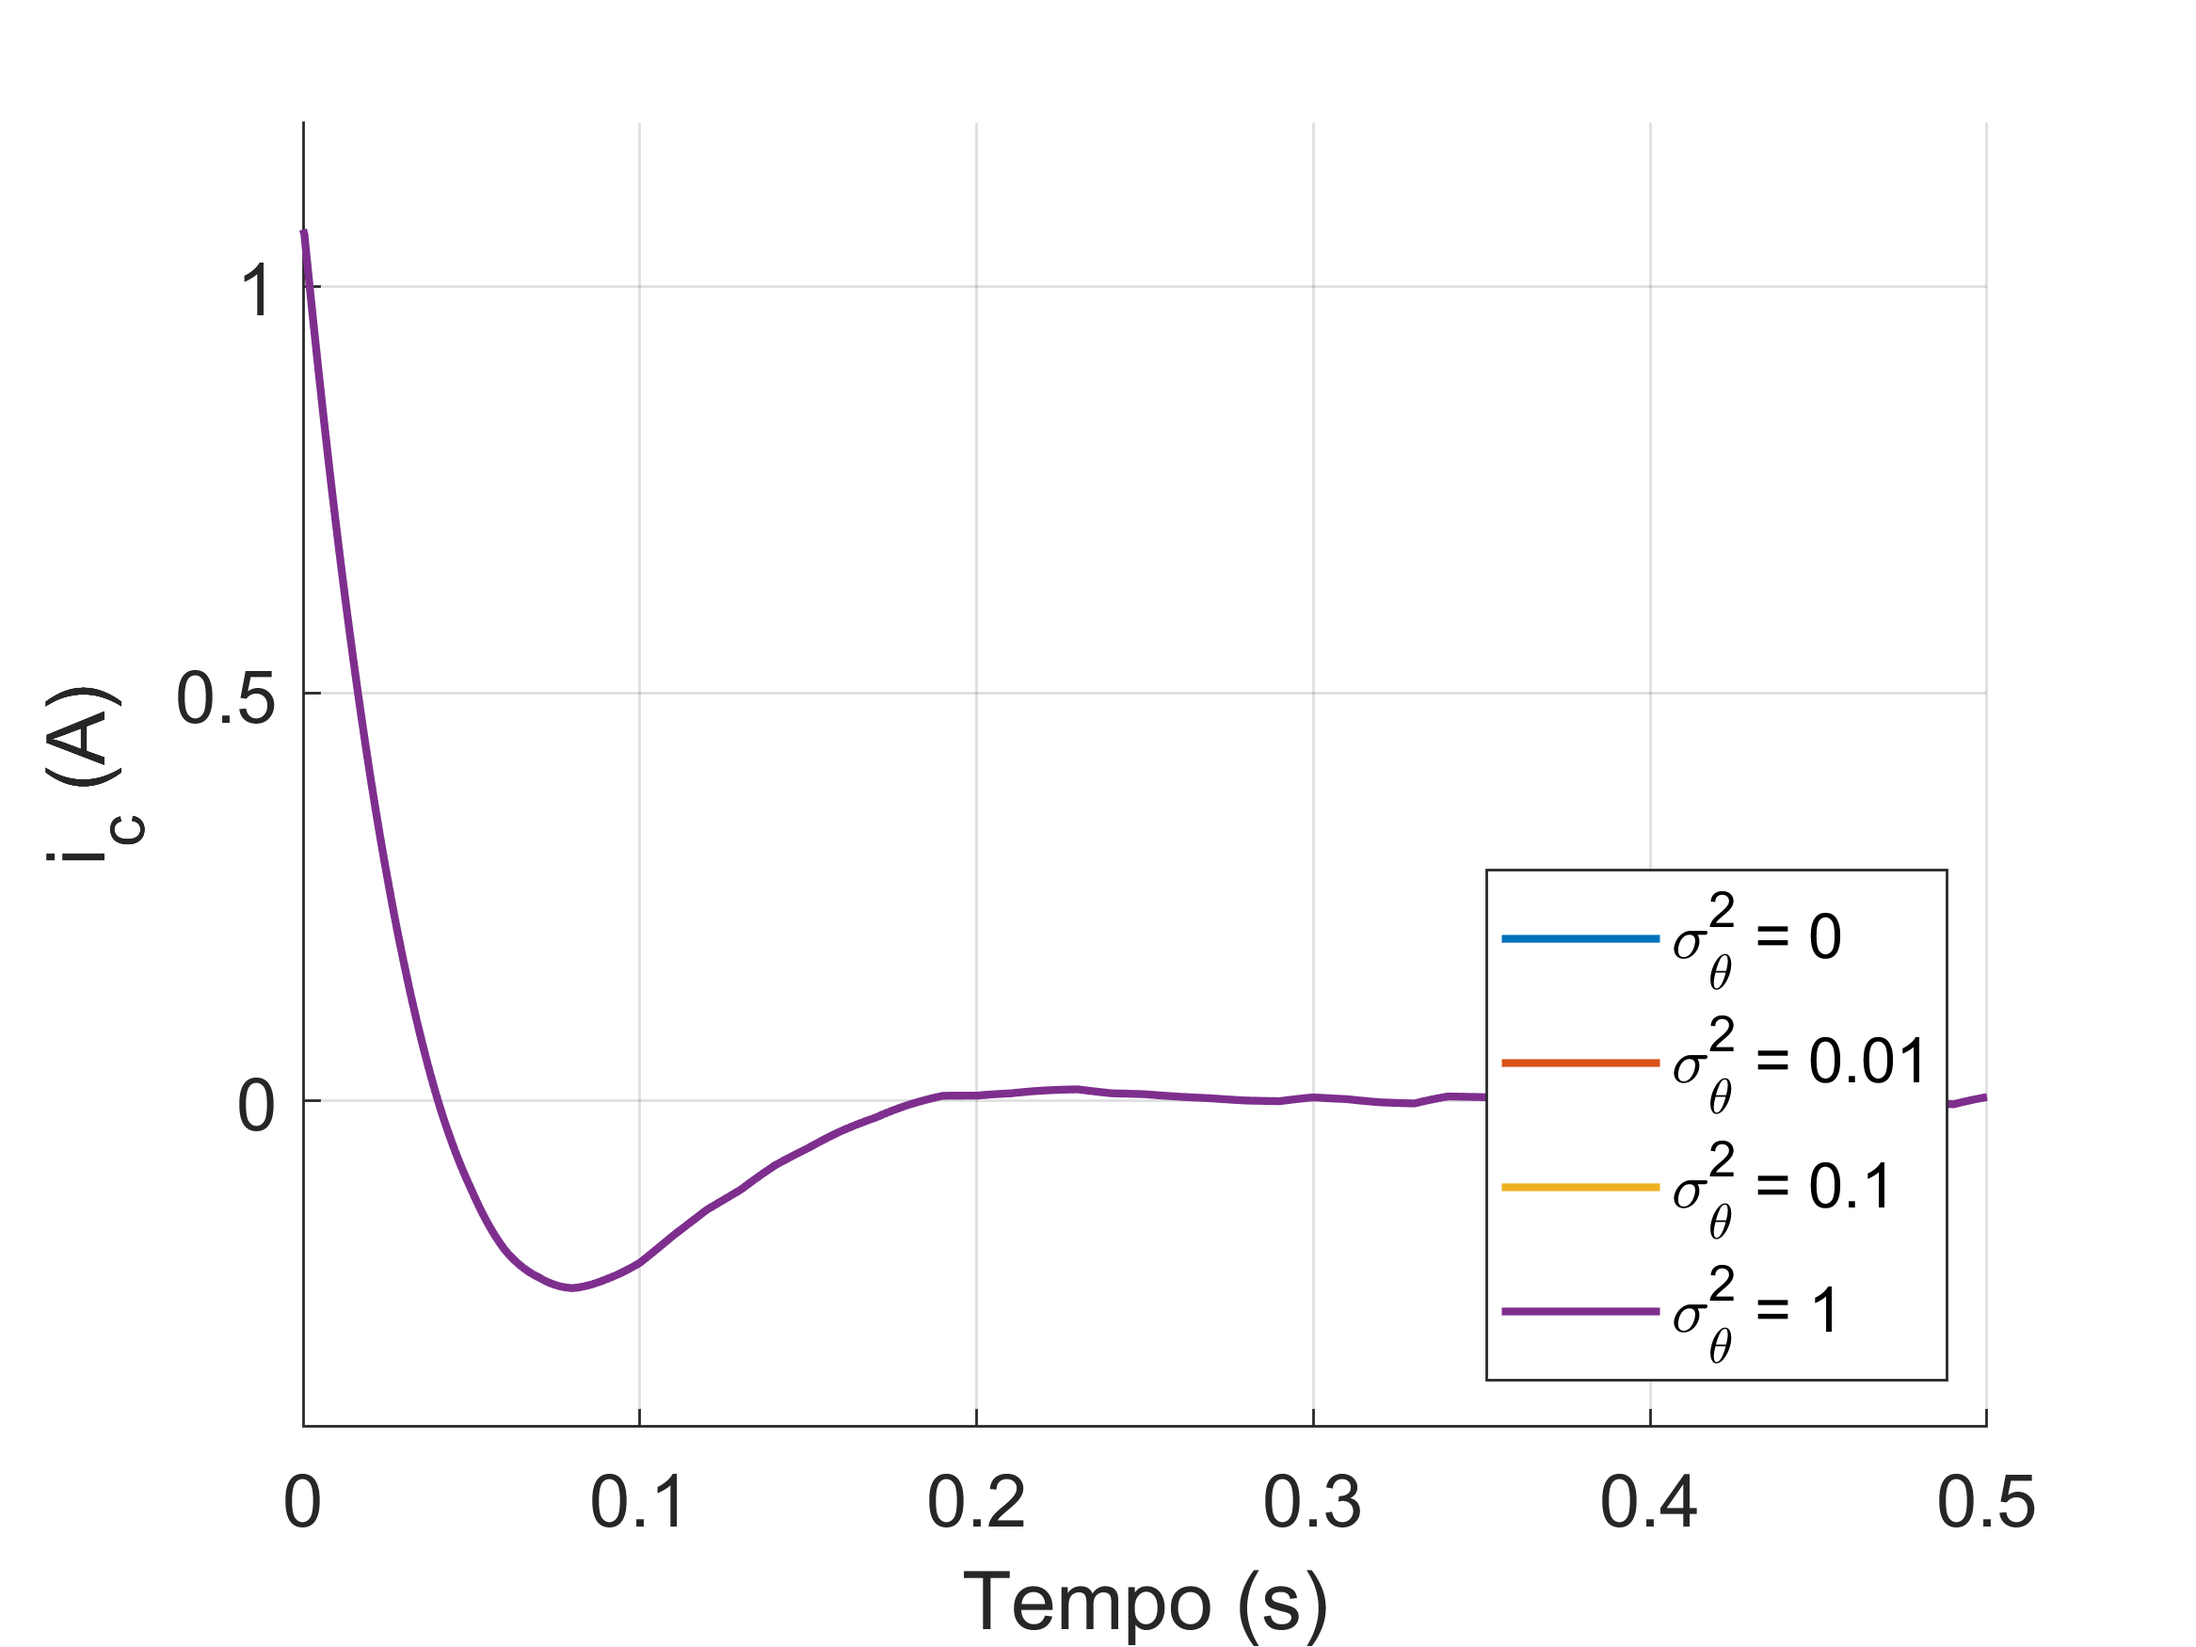
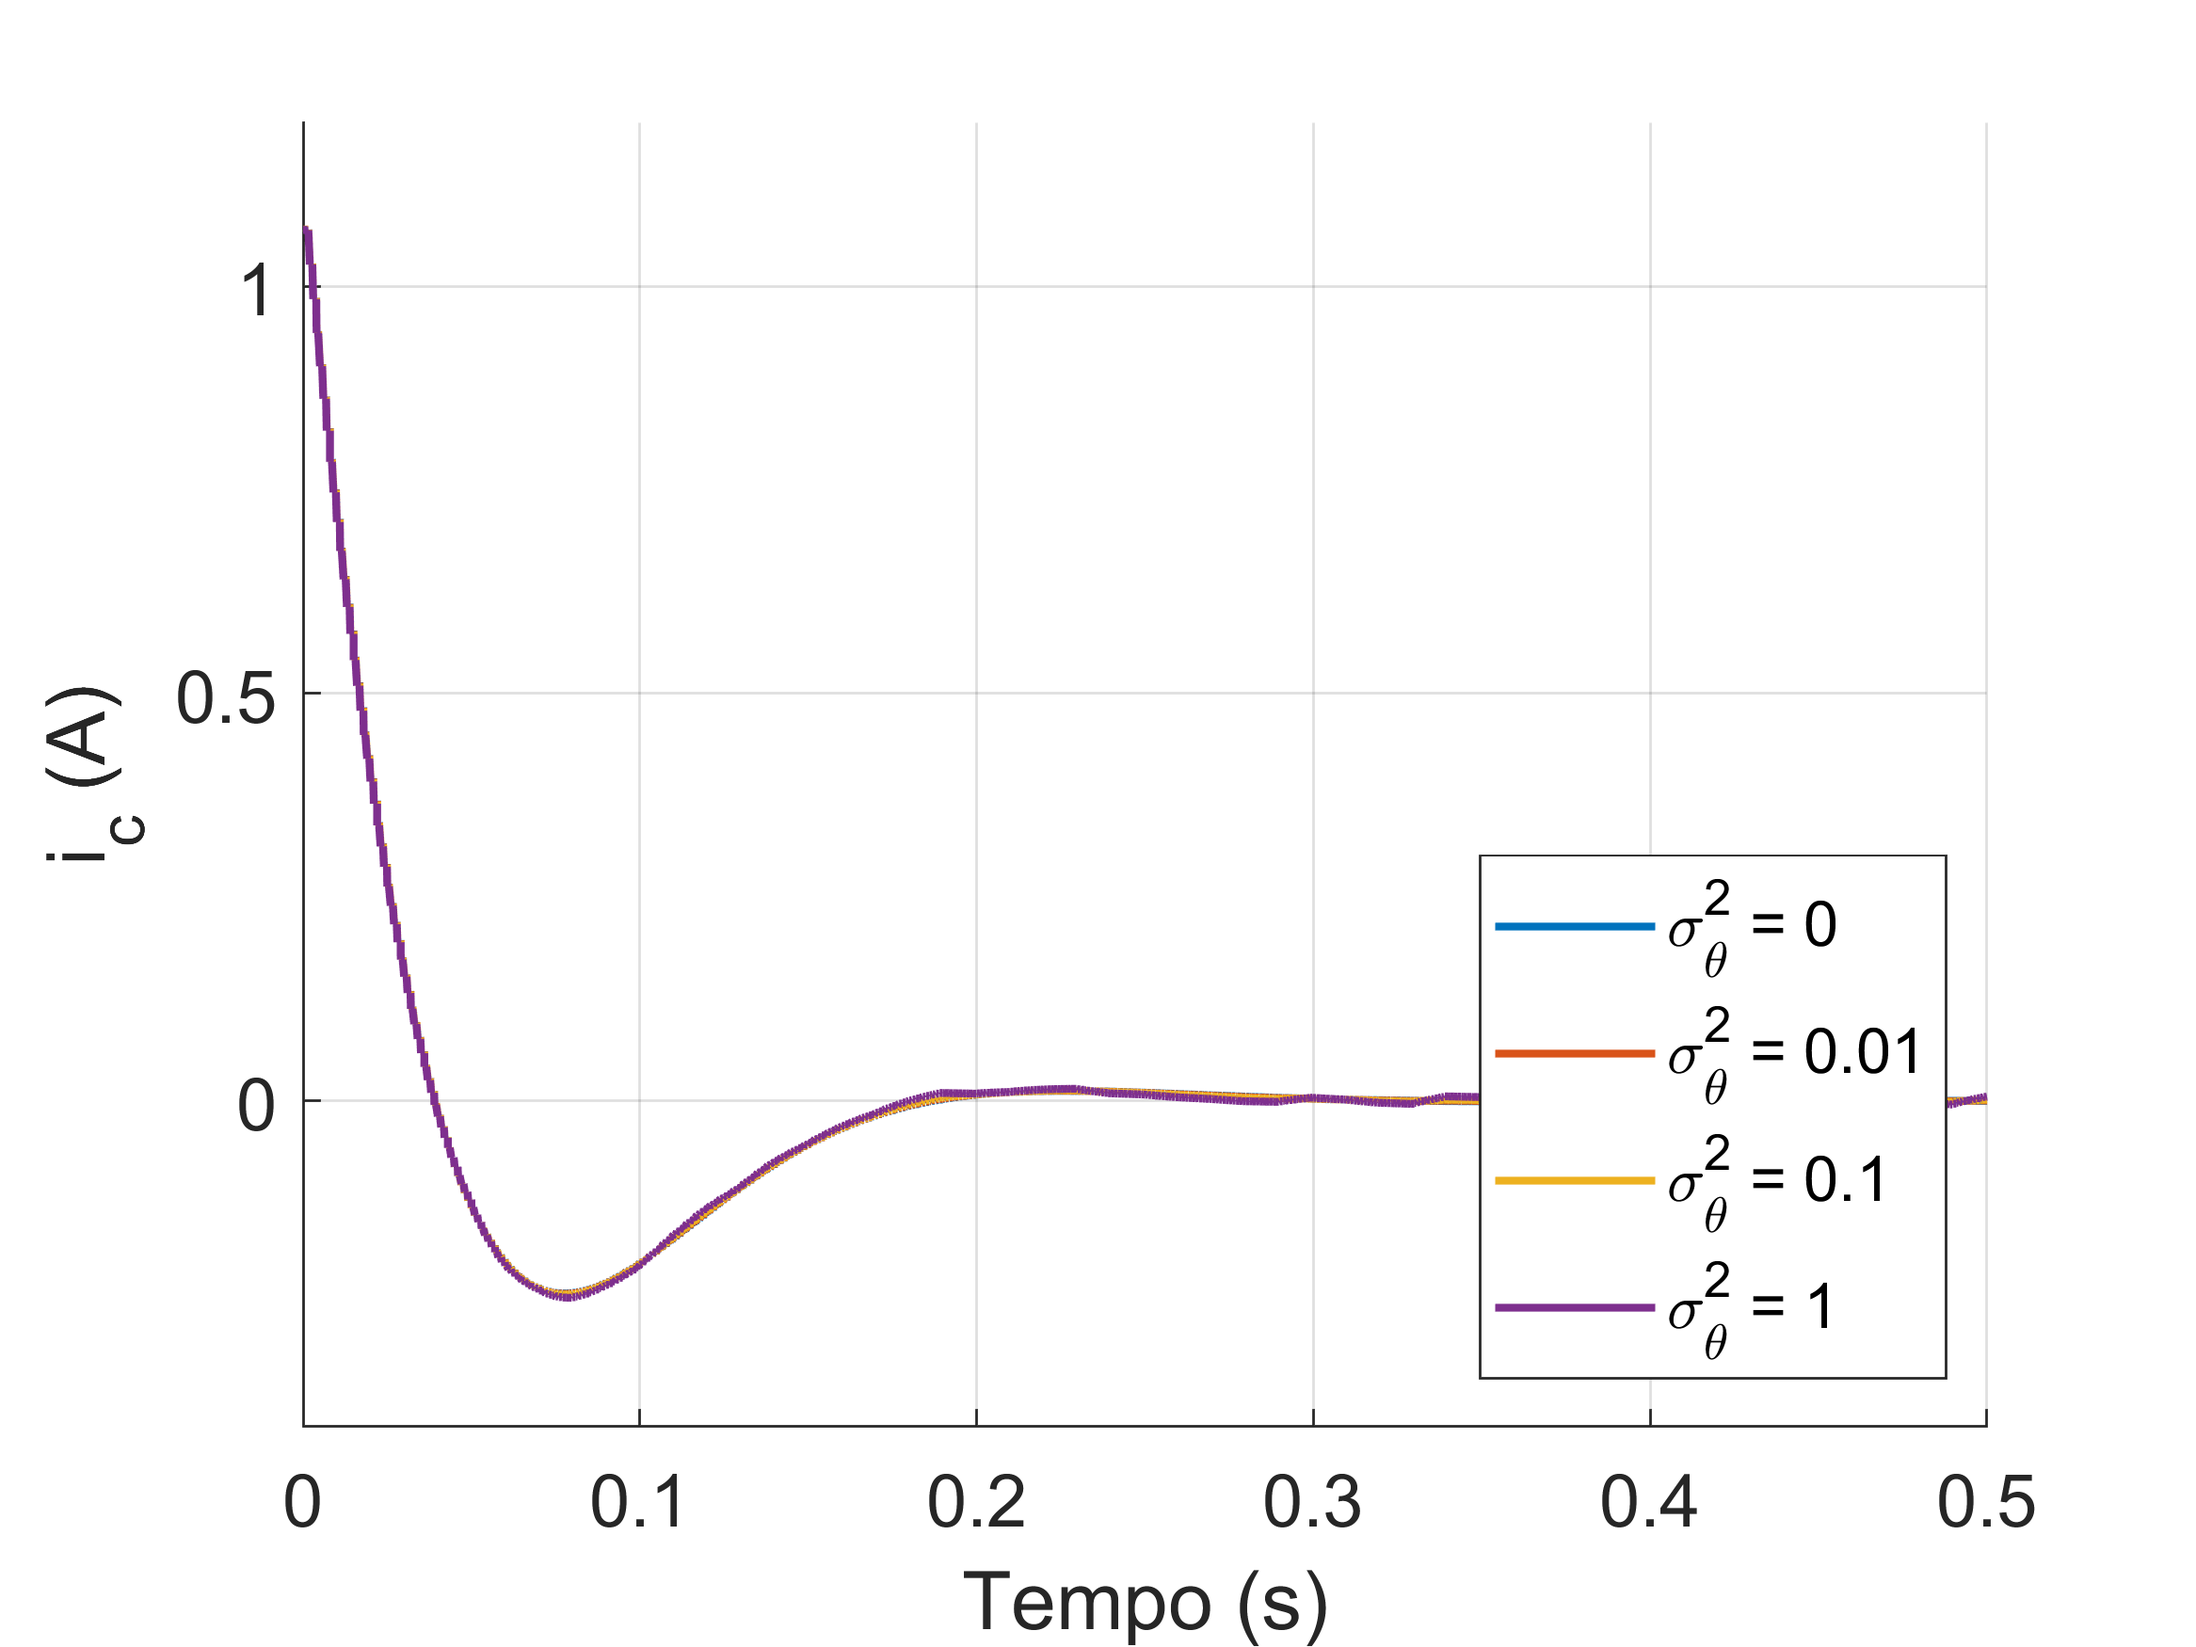
changed matrix

diff --git a/Exame/lab6/obterPlantaKalman.m b/Exame/lab6/obterPlantaKalman.m
@@ -35,9 +35,25 @@ planta.quantizacaoEncoder = 2 * pi / 2^(bitsEncoder); % quantizacao do encoder
 
 
 % Parâmetros pro filtro de Kalman
-planta.Kalman.A = [0 1; 0 -1*planta.Beq/planta.Jeq];
-planta.Kalman.B = [0 ; planta.N*planta.eta*planta.Kt/planta.Jeq];
+Ts = 1/1000;
+
+A = [0 1; 0 -1*planta.Beq/planta.Jeq];
+B = [0 ; planta.N*planta.eta*planta.Kt/planta.Jeq];
 planta.Kalman.C = [1 0];
 planta.Kalman.D = 0;
+Q = diag([0.05 0.05]);
+R = 1;
+G = eye(2);
 
+% Discreto
+
+big=expm([A B;zeros(1,3)]*Ts);
+planta.Kalman.A = big(1:2,1:2);
+planta.Kalman.B = big(1:2,3);
+
+big=expm([A G*Q*G;zeros(2) -A']*Ts);
+Ad = big(1:2,1:2);
+planta.Kalman.Q = big(1:2,3:4) * Ad';
+
+planta.Kalman.R = R / Ts;
 end
